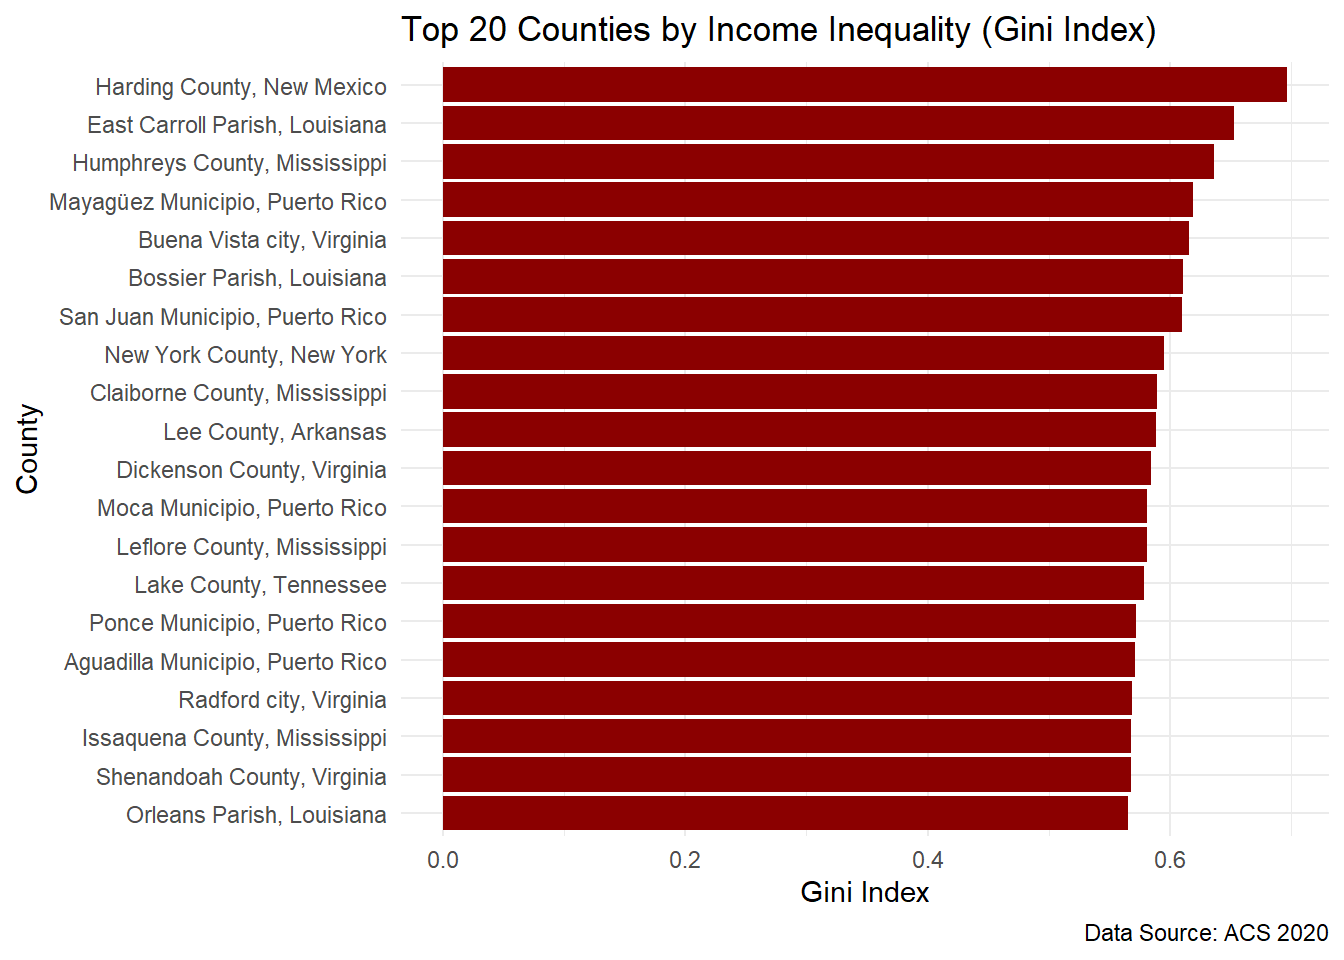
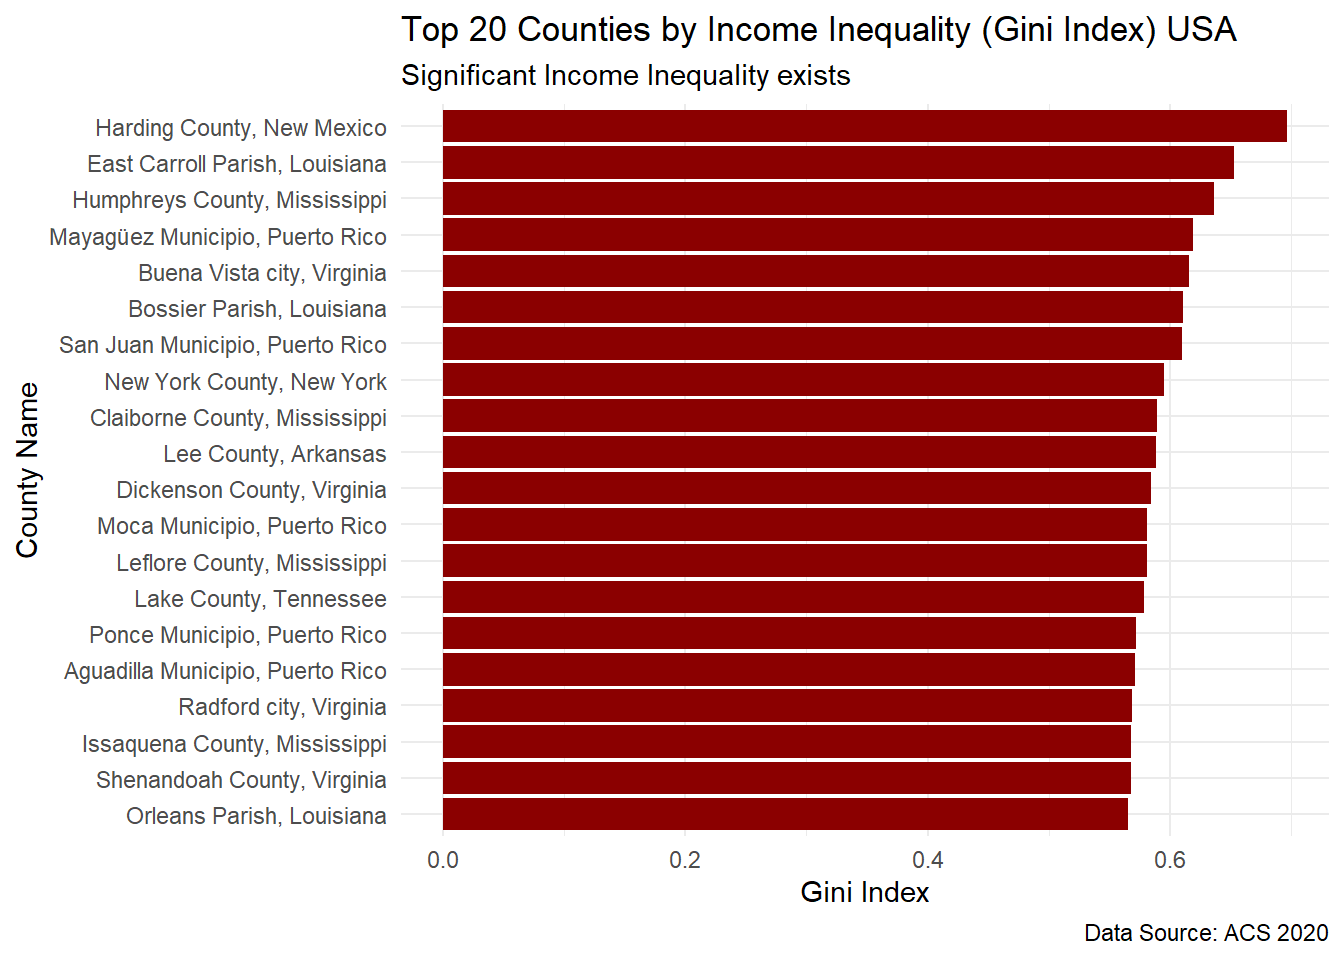
Cleaned Project

Changed region(s): [[0.0312, 0.0, 0.9688, 0.875], [0.3125, 0.7812, 0.8438, 0.8438], [0.0, 0.4062, 0.0312, 0.5938]]

diff --git a/_site/index.html b/_site/index.html
@@ -97,6 +97,10 @@ ul.task-list li input[type="checkbox"] {
     <a class="nav-link" href="./source.html"> 
 <span class="menu-text">Source</span></a>
   </li>  
+  <li class="nav-item">
+    <a class="nav-link" href="./Dedication.html"> 
+<span class="menu-text">Dedication</span></a>
+  </li>  
 </ul>
           </div> <!-- /navcollapse -->
             <div class="quarto-navbar-tools">
@@ -114,6 +118,7 @@ ul.task-list li input[type="checkbox"] {
    
   <ul>
   <li><a href="#summary" id="toc-summary" class="nav-link active" data-scroll-target="#summary">Summary</a></li>
+  <li><a href="#plot-showing-income-inequality" id="toc-plot-showing-income-inequality" class="nav-link" data-scroll-target="#plot-showing-income-inequality">Plot Showing Income Inequality</a></li>
   <li><a href="#description" id="toc-description" class="nav-link" data-scroll-target="#description">Description</a></li>
   </ul>
 </nav>
@@ -148,7 +153,12 @@ ul.task-list li input[type="checkbox"] {
 
 <section id="summary" class="level3">
 <h3 class="anchored" data-anchor-id="summary">Summary</h3>
-<p>Income inequality is the hot topic at agenda of Nations because for inclusive development, it is mandatory to minimize gap of income inequality among people (SDG 10). Income inequality is not only burning issue for developing nations but also for developed countires. In this document I have explained a picture of income inequality among 20 counties having higest level of income inequality in USA. The document is prepared by accessing data from American Community Servey (ACS) 2020. The document has two expositions of income inequality; first in the form of graph showing name of counties on Y axis and Gini Index on X axis. Scond, an interactive map of these counties with Gini Index of income inequality, the reder may click on map to see the figures in zoom. The results show that Harding County, New Mexico ranks highest, followed by East Carroll Parish, Louisiana with income inequality more than 0.6 out of 1 as per Gini Index measure.</p>
+<div style="text-align: justify;">
+Income inequality is the hot topic at agenda of Nations because for inclusive development, it is mandatory to minimize gap of income inequality among people (SDG 10). Income inequality is not only burning issue for developing nations but also for developed countires. In this document I have explained a picture of income inequality among 20 counties having higest level of income inequality in USA. The document is prepared by accessing data from American Community Servey (ACS) 2020. The Gini Index rages from 0 to 1; 0 means no income inequality which is practically impossible, 1 meanes income rests with only one household in a county. Futher, upto 0.3 means acceptable income inequality and byound 0.4 income inequality exists. This document has exposition of income inequality in the form of a graph showing name of counties on Y axis and Gini Index on X axis. The results show that Harding County, New Mexico ranks highest, followed by East Carroll Parish, Louisiana with income inequality more than 0.6 out of 1 as per Gini Index measure.
+</div>
+</section>
+<section id="plot-showing-income-inequality" class="level2">
+<h2 class="anchored" data-anchor-id="plot-showing-income-inequality">Plot Showing Income Inequality</h2>
 <div class="cell">
 <div class="cell-output-display">
 <div>
@@ -161,7 +171,9 @@ ul.task-list li input[type="checkbox"] {
 </section>
 <section id="description" class="level2">
 <h2 class="anchored" data-anchor-id="description">Description</h2>
-<p>The image presents a horizontal bar chart titled “Top 20 Counties by Income Inequality (Gini Index)”, based on data from the American Community Survey (ACS) 2020. It visualizes the counties in the United States with the highest levels of income inequality, as measured by the Gini Index. The Gini Index values range approximately from 0.55 to over 0.66, with higher values indicating greater inequality. Harding County, New Mexico ranks highest, followed closely by East Carroll Parish, Louisiana and Humphreys County, Mississippi. The source of the data is clearly cited in the caption at the bottom right: “Data Source: ACS 2020”. This chart effectively highlights geographic areas in the U.S. with the most pronounced income disparities.</p>
+<div style="text-align: justify;">
+The image presents a horizontal bar chart titled “Top 20 Counties by Income Inequality (Gini Index)”, based on data from the American Community Survey (ACS) 2020. It visualizes the counties in the United States with the highest levels of income inequality, as measured by the Gini Index. The Gini Index values range approximately from 0.55 to over 0.66, with higher values indicating greater inequality. Harding County, New Mexico ranks highest, followed closely by East Carroll Parish, Louisiana and Humphreys County, Mississippi. The source of the data is clearly cited in the caption at the bottom right: “Data Source: ACS 2020”. This chart effectively highlights 20 counties having highest income disparities in USA.
+</div>
 
 
 </section>

diff --git a/_site/about.html b/_site/about.html
@@ -97,6 +97,10 @@ ul.task-list li input[type="checkbox"] {
     <a class="nav-link" href="./source.html"> 
 <span class="menu-text">Source</span></a>
   </li>  
+  <li class="nav-item">
+    <a class="nav-link" href="./Dedication.html"> 
+<span class="menu-text">Dedication</span></a>
+  </li>  
 </ul>
           </div> <!-- /navcollapse -->
             <div class="quarto-navbar-tools">
@@ -139,9 +143,8 @@ ul.task-list li input[type="checkbox"] {
 </header>
 
 
-<p>My email for contact: <a href="mailto:naveedgill4u@yahoo.com">naveedgill4u@yahoo.com</a>. <i class="fa-brands fa-github"></i> <a href="https://github.com/naveedgill4u/income-inequality.git">Income Inequality</a> Deeply thankful to Preceptor for organizing free Data Science Bootcamp and illuminating us with knowldege of current era in Data Science. 🌐 <a href="https://bootcamp.davidkane.info/">David Kane’s Free Data Science Bootcamp</a></p>
 <div style="text-align: justify;">
-<p>Author is an expert in Finance, accounts and audit with qualification of Master of Philisophy in Business Management from Pakistan, and lerning Data Analysis from Kane’s Data Science Bootcamp. Income inequality is hot topic at agenda of Nations because for inclusive development, it is mandatory to minimize gap of income inequality among people. Income inequality is not only burning issue for developing nations but also for developed countires. In this document author has explained a picture of income inequality among 20 counties having higest level of income inequality in USA. The document is prepared by accessing data from American Community Servey (ACS) 2020. The document has two expositions of income inequality; first in the form of graph showing name of counties on Y axis and Gini Index on X axis. Scond, an interactive map of these counties with Gini Index of income inequality, the reder may click on map to see the figures in zoom.</p>
+Author is an expert in Finance, accounts and audit with qualification of Master of Philisophy in Business Management from Pakistan. You may approcah me through email:<a href="mailto:naveedgill4u@yahoo.com">naveedgill4u@yahoo.com</a>. <i class="fa-brands fa-github"></i> You can also visit me <a href="https://github.com/naveedgill4u/income-inequality">Income Inequality</a>. I am Deeply thankful to Preceptor for organizing free Data Science Bootcamp and illuminating us with knowldege of current era in Data Science 🌐 <a href="https://bootcamp.davidkane.info/">David Kane’s Free Data Science Bootcamp</a> . Income inequality is at agenda of Nations through Sustaniable Development Goals (SDG-1o). In this document I have explained a picture of income inequality among 20 counties having higest level of income inequality in USA. The document is prepared by accessing data from American Community Servey (ACS) 2020.
 </div>
 
 
@@ -219,7 +222,7 @@ ul.task-list li input[type="checkbox"] {
     }
       var localhostRegex = new RegExp(/^(?:http|https):\/\/localhost\:?[0-9]*\//);
       var mailtoRegex = new RegExp(/^mailto:/);
-        var filterRegex = new RegExp('/' + window.location.host + '/');
+        var filterRegex = new RegExp("https:\/\/naveedgill4u\.github\.io\/income-inequality\/");
       var isInternal = (href) => {
           return filterRegex.test(href) || localhostRegex.test(href) || mailtoRegex.test(href);
       }
